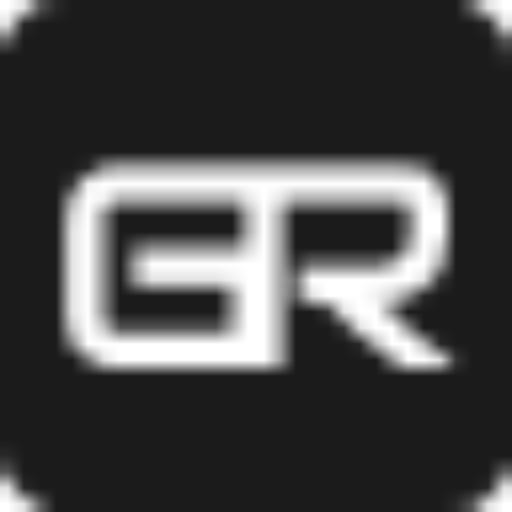
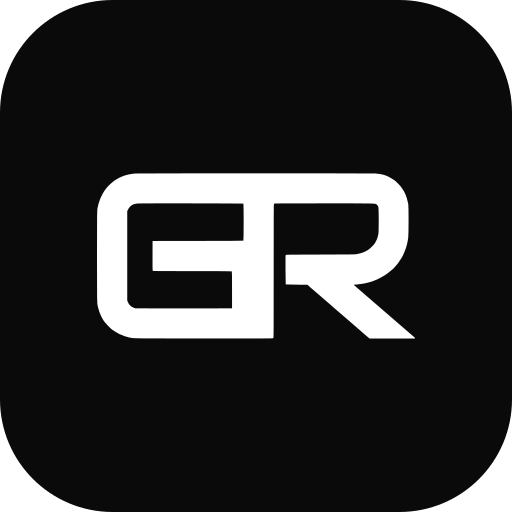
adiciona tecnologias de IA em carrosel, adiciona título para contribuições do github e melhora desempenho de apresentação do ícone do site para todos os motores web

diff --git a/src/components/AboutSection.tsx b/src/components/AboutSection.tsx
@@ -32,18 +32,30 @@ function LazyEarth() {
   );
 }
 
+// invertOnDark: logos monocromáticos pretos, que somem no fundo escuro
+// iconDark: versão própria para o tema escuro, quando inverter estragaria as cores
+type TechItem = {
+  name: string;
+  icon: string;
+  iconDark?: string;
+  invertOnDark?: boolean;
+};
+
+// segundos por item: o tempo de cada fileira cresce com a quantidade de itens,
+// assim todas rolam na mesma velocidade
+const MARQUEE_SECONDS_PER_ITEM = 5;
+
 function TechMarquee({
   items,
   group,
-  duration,
   reverse = false,
 }: {
-  items: { name: string; icon: string }[];
+  items: TechItem[];
   group: string;
-  duration: number;
   reverse?: boolean;
 }) {
   const repeated = [...items, ...items, ...items];
+  const duration = items.length * MARQUEE_SECONDS_PER_ITEM;
 
   return (
     <div className="relative overflow-hidden flex justify-start">
@@ -62,9 +74,19 @@ function TechMarquee({
                 src={tech.icon}
                 alt={index < items.length ? `${tech.name} logo` : ""}
                 fill
-                className="object-contain"
+                className={`object-contain ${tech.invertOnDark ? "dark:invert" : ""} ${tech.iconDark ? "dark:hidden" : ""}`}
                 sizes="(max-width: 640px) 16px, (max-width: 768px) 20px, 24px"
               />
+              {tech.iconDark && (
+                <Image
+                  src={tech.iconDark}
+                  alt=""
+                  aria-hidden="true"
+                  fill
+                  className="hidden object-contain dark:block"
+                  sizes="(max-width: 640px) 16px, (max-width: 768px) 20px, 24px"
+                />
+              )}
             </div>
             <span className="text-[10px] xs:text-xs sm:text-sm font-medium text-gray-900 dark:text-gray-300 whitespace-nowrap">
               {tech.name}
@@ -367,16 +389,16 @@ export default function AboutSection() {
   const { t } = useLanguage();
   const { theme } = useTheme();
 
-  const frontendTech = [
+  const frontendTech: TechItem[] = [
     { name: "React", icon: "/react-original.svg" },
-    { name: "Next.js", icon: "/nextjs-original.svg" },
+    { name: "Next.js", icon: "/nextjs-original.svg", invertOnDark: true },
     { name: "Angular", icon: "/angular-svgrepo-com.svg" },
     { name: "Tailwind CSS", icon: "/tailwindcss-icon-svgrepo-com.svg" },
     { name: "TypeScript", icon: "/typescript-original.svg" },
-    { name: "Expo Router", icon: "/expo-router.svg" },
+    { name: "Expo Router", icon: "/expo-router.svg", invertOnDark: true },
   ];
 
-  const backendTech = [
+  const backendTech: TechItem[] = [
     { name: "Python", icon: "/python-original.svg" },
     { name: "Java", icon: "/java-svgrepo-com.svg" },
     { name: "Spring Boot", icon: "/spring-original-wordmark.svg" },
@@ -388,12 +410,12 @@ export default function AboutSection() {
     { name: "Docker", icon: "/docker-svgrepo-com.svg" },
   ];
 
-  const toolsTech = [
+  const toolsTech: TechItem[] = [
     { name: "Git", icon: "/git.svg" },
-    { name: "GitHub", icon: "/github.svg" },
+    { name: "GitHub", icon: "/github.svg", invertOnDark: true },
     { name: "Figma", icon: "/figma-original.svg" },
-    { name: "Vercel", icon: "/vercel-fill-svgrepo-com.svg" },
-    { name: "Railway", icon: "/railway-logo.svg" },
+    { name: "Vercel", icon: "/vercel-fill-svgrepo-com.svg", invertOnDark: true },
+    { name: "Railway", icon: "/railway-logo.svg", invertOnDark: true },
     { name: "Postman", icon: "/postman-icon-svgrepo-com.svg" },
     { name: "Insomnia", icon: "/insomnia-svgrepo-com.svg" },
     { name: "Trello", icon: "/trello-svgrepo-com.svg" },
@@ -401,10 +423,19 @@ export default function AboutSection() {
     { name: "Visual Studio", icon: "/visualstudio-plain.svg" },
     { name: "IntelliJ IDEA", icon: "/intellij-idea-svgrepo-com.svg" },
     { name: "NPM", icon: "/npm-svgrepo-com.svg" },
-    { name: "AWS", icon: "/aws-svgrepo-com.svg" },
+    { name: "AWS", icon: "/aws-svgrepo-com.svg", iconDark: "/aws-dark.svg" },
     { name: "Azure", icon: "/azure-original-wordmark.svg" },
     { name: "OCI", icon: "/oracle-svgrepo-com.svg" },
     { name: "Linux", icon: "/linux-original.svg" },
+  ];
+
+  const aiTech: TechItem[] = [
+    { name: "Claude", icon: "/claude.svg" },
+    { name: "ChatGPT", icon: "/chatgpt.svg", invertOnDark: true },
+    { name: "Gemini", icon: "/gemini.svg" },
+    { name: "RAG", icon: "/rag.svg" },
+    { name: "MCP", icon: "/mcp.svg" },
+    { name: "Agent Skills", icon: "/agent-skills.svg" },
   ];
 
   return (
@@ -583,32 +614,30 @@ export default function AboutSection() {
               <div className="space-y-4 xs:space-y-5 sm:space-y-6">
                 <div>
                   <h4 className="text-xs sm:text-sm font-medium text-gray-900 dark:text-gray-400 mb-2 xs:mb-2.5 sm:mb-3 text-center">
-                    Frontend
+                    {t.about.techGroups.frontend}
                   </h4>
-                  <TechMarquee
-                    items={frontendTech}
-                    group="frontend"
-                    duration={30}
-                  />
+                  <TechMarquee items={frontendTech} group="frontend" />
                 </div>
 
                 <div>
                   <h4 className="text-xs sm:text-sm font-medium text-gray-900 dark:text-gray-400 mb-2 xs:mb-2.5 sm:mb-3 text-center">
-                    Backend & Database
+                    {t.about.techGroups.backend}
                   </h4>
-                  <TechMarquee
-                    items={backendTech}
-                    group="backend"
-                    duration={30}
-                    reverse
-                  />
+                  <TechMarquee items={backendTech} group="backend" reverse />
                 </div>
 
                 <div>
                   <h4 className="text-xs sm:text-sm font-medium text-gray-900 dark:text-gray-400 mb-2 xs:mb-2.5 sm:mb-3 text-center">
-                    Tools & Cloud Services
+                    {t.about.techGroups.tools}
                   </h4>
-                  <TechMarquee items={toolsTech} group="tools" duration={35} />
+                  <TechMarquee items={toolsTech} group="tools" />
+                </div>
+
+                <div>
+                  <h4 className="text-xs sm:text-sm font-medium text-gray-900 dark:text-gray-400 mb-2 xs:mb-2.5 sm:mb-3 text-center">
+                    {t.about.techGroups.ai}
+                  </h4>
+                  <TechMarquee items={aiTech} group="ai" reverse />
                 </div>
               </div>
             </motion.div>

diff --git a/src/lib/i18n.ts b/src/lib/i18n.ts
@@ -88,6 +88,12 @@ export interface Translations {
     timezone: string;
     timezoneTitle: string;
     passionate: string;
+    techGroups: {
+      frontend: string;
+      backend: string;
+      tools: string;
+      ai: string;
+    };
     github: string;
     githubDesc: string;
     linkedin: string;
@@ -99,6 +105,8 @@ export interface Translations {
   };
 
   githubActivity: {
+    sectionTitle: string;
+    sectionSubtitle: string;
     titleLastYear: string;
     titleYear: string;
     lastYear: string;
@@ -264,6 +272,12 @@ export const translations: Record<Language, Translations> = {
       timezone: "Do Brasil para o mundo",
       timezoneTitle: "Localizado no Brasil, disponível para colaboração global",
       passionate: "Fascinado por tecnologias de ponta",
+      techGroups: {
+        frontend: "Frontend",
+        backend: "Backend & Banco de Dados",
+        tools: "Ferramentas & Serviços de Nuvem",
+        ai: "IA",
+      },
       github: "Contribuindo com projetos no GitHub",
       githubDesc: "Código aberto e colaboração",
       linkedin: "Compartilhando insights no LinkedIn",
@@ -406,6 +420,8 @@ export const translations: Record<Language, Translations> = {
     },
 
     githubActivity: {
+      sectionTitle: "Atividade no GitHub",
+      sectionSubtitle: "Minhas contribuições e o ritmo de código ao longo do tempo",
       titleLastYear: "contribuições no último ano",
       titleYear: "contribuições em {year}",
       lastYear: "Último ano",
@@ -561,6 +577,12 @@ export const translations: Record<Language, Translations> = {
       timezone: "From Brazil to the world",
       timezoneTitle: "Located in Brazil, available for global collaboration",
       passionate: "Fascinated by cutting-edge technologies",
+      techGroups: {
+        frontend: "Frontend",
+        backend: "Backend & Database",
+        tools: "Tools & Cloud Services",
+        ai: "AI",
+      },
       github: "Contributing to projects on GitHub",
       githubDesc: "Open source and collaboration",
       linkedin: "Sharing insights on LinkedIn",
@@ -703,6 +725,8 @@ export const translations: Record<Language, Translations> = {
     },
 
     githubActivity: {
+      sectionTitle: "GitHub Activity",
+      sectionSubtitle: "My contributions and coding rhythm over time",
       titleLastYear: "contributions in the last year",
       titleYear: "contributions in {year}",
       lastYear: "Last year",
@@ -859,6 +883,12 @@ export const translations: Record<Language, Translations> = {
       timezone: "De Brasil para el mundo",
       timezoneTitle: "Situado en Brasil, disponible para colaboración global",
       passionate: "Fascinado por las tecnologías de vanguardia",
+      techGroups: {
+        frontend: "Frontend",
+        backend: "Backend & Bases de Datos",
+        tools: "Herramientas & Servicios en la Nube",
+        ai: "IA",
+      },
       github: "Contribuyendo a proyectos en GitHub",
       githubDesc: "Código abierto y colaboración",
       linkedin: "Compartiendo ideas en LinkedIn",
@@ -1001,6 +1031,8 @@ export const translations: Record<Language, Translations> = {
     },
 
     githubActivity: {
+      sectionTitle: "Actividad en GitHub",
+      sectionSubtitle: "Mis contribuciones y el ritmo de código a lo largo del tiempo",
       titleLastYear: "contribuciones en el último año",
       titleYear: "contribuciones en {year}",
       lastYear: "Último año",

diff --git a/src/components/GithubActivity.tsx b/src/components/GithubActivity.tsx
@@ -245,9 +245,31 @@ export default function GithubActivity() {
   return (
     <section
       id="github-activity"
-      aria-label="GitHub"
+      aria-labelledby="github-activity-title"
       className="px-3 py-12 xs:px-4 sm:py-16 lg:px-6 lg:py-24"
     >
+      <motion.div
+        initial={{ opacity: 0, y: 20 }}
+        whileInView={{ opacity: 1, y: 0 }}
+        transition={{ duration: 0.6 }}
+        viewport={{ once: true }}
+        className="mx-auto mb-8 max-w-6xl text-center xs:mb-12 sm:mb-16"
+      >
+        <h2
+          id="github-activity-title"
+          className="mb-2 bg-linear-to-r from-gray-900 to-gray-600 bg-clip-text text-xl font-light text-transparent xs:text-2xl sm:mb-3 sm:text-4xl md:mb-4 md:text-5xl dark:from-white dark:to-gray-400"
+        >
+          {copy.sectionTitle.split(" ").slice(0, -1).join(" ")}{" "}
+          <span className="gradient-orange-accent">
+            {copy.sectionTitle.split(" ").pop()}
+          </span>
+        </h2>
+
+        <p className="text-xs font-light text-gray-700 xs:text-sm sm:text-base md:text-lg lg:text-xl dark:text-gray-300">
+          {copy.sectionSubtitle}
+        </p>
+      </motion.div>
+
       <motion.div
         ref={rootRef}
         initial={{ opacity: 0, y: 24 }}
@@ -293,7 +315,7 @@ export default function GithubActivity() {
                   <div className="flex flex-col gap-4 sm:flex-row sm:items-start sm:justify-between">
                     <div>
                       {eyebrow}
-                      <h2
+                      <h3
                         aria-live="polite"
                         className="mt-2 text-2xl font-light tracking-tight text-gray-900 sm:text-4xl dark:text-white"
                       >
@@ -306,7 +328,7 @@ export default function GithubActivity() {
                         {period === LAST_YEAR
                           ? copy.titleLastYear
                           : copy.titleYear.replace("{year}", period)}
-                      </h2>
+                      </h3>
                     </div>
                     {profileLink}
                   </div>
@@ -428,9 +450,9 @@ export default function GithubActivity() {
               <div className="flex flex-col gap-4 sm:flex-row sm:items-start sm:justify-between">
                 <div>
                   {eyebrow}
-                  <h2 className="mt-2 text-2xl font-light tracking-tight text-gray-900 sm:text-4xl dark:text-white">
+                  <h3 className="mt-2 text-2xl font-light tracking-tight text-gray-900 sm:text-4xl dark:text-white">
                     {copy.weeklyTitle}
-                  </h2>
+                  </h3>
                 </div>
                 {profileLink}
               </div>

diff --git a/src/app/layout.tsx b/src/app/layout.tsx
@@ -4,7 +4,7 @@ import { Instrument_Serif, Sora } from 'next/font/google';
 import { ThemeProvider } from '@/contexts/ThemeContext';
 import { LanguageProvider } from '@/contexts/LanguageContext';
 import SmoothScroll from '@/components/SmoothScroll';
-import type { Metadata } from 'next';
+import type { Metadata, Viewport } from 'next';
 import { Analytics } from '@vercel/analytics/next';
 
 const sora = Sora({
@@ -28,31 +28,41 @@ export const metadata: Metadata = {
   appleWebApp: {
     capable: true,
     title: "Portfolio",
-    statusBarStyle: "default",
+    statusBarStyle: "black-translucent",
   },
   manifest: "/site.webmanifest",
+  // ícones gerados a partir do mesmo logo vetorial (public/favicon.svg)
   icons: {
     icon: [
-      { url: '/favicon-96x96.png', sizes: '96x96', type: 'image/png' },
+      { url: '/favicon.ico', sizes: '48x48' },
       { url: '/favicon.svg', type: 'image/svg+xml' },
-      { url: '/android-chrome-192x192.png', sizes: '192x192', type: 'image/png' },
-      { url: '/android-chrome-512x512.png', sizes: '512x512', type: 'image/png' },
-    ],
-    shortcut: [
-      { url: '/favicon.ico' }
+      { url: '/favicon-96x96.png', sizes: '96x96', type: 'image/png' },
     ],
     apple: [
       { url: '/apple-touch-icon.png', sizes: '180x180', type: 'image/png' },
     ],
   },
+  other: {
+    // bloco do Windows ao fixar o site no menu Iniciar
+    'msapplication-TileColor': '#0a0a0a',
+    'msapplication-TileImage': '/web-app-manifest-192x192.png',
+  },
+};
+
+export const viewport: Viewport = {
+  width: 'device-width',
+  initialScale: 1,
+  viewportFit: 'cover',
+  // cor da barra do navegador no Android e no Safari, seguindo o tema do sistema
+  themeColor: [
+    { media: '(prefers-color-scheme: light)', color: '#ffffff' },
+    { media: '(prefers-color-scheme: dark)', color: '#000000' },
+  ],
 };
 
 export default function RootLayout({ children }: { children: ReactNode }) {
   return (
     <html lang="pt-BR" className={`${sora.variable} ${instrumentSerif.variable}`} suppressHydrationWarning>
-      <head>
-        <meta name="viewport" content="width=device-width, initial-scale=1, viewport-fit=cover" />
-      </head>
       <body className="font-sans antialiased">
         <ThemeProvider>
           <LanguageProvider>
